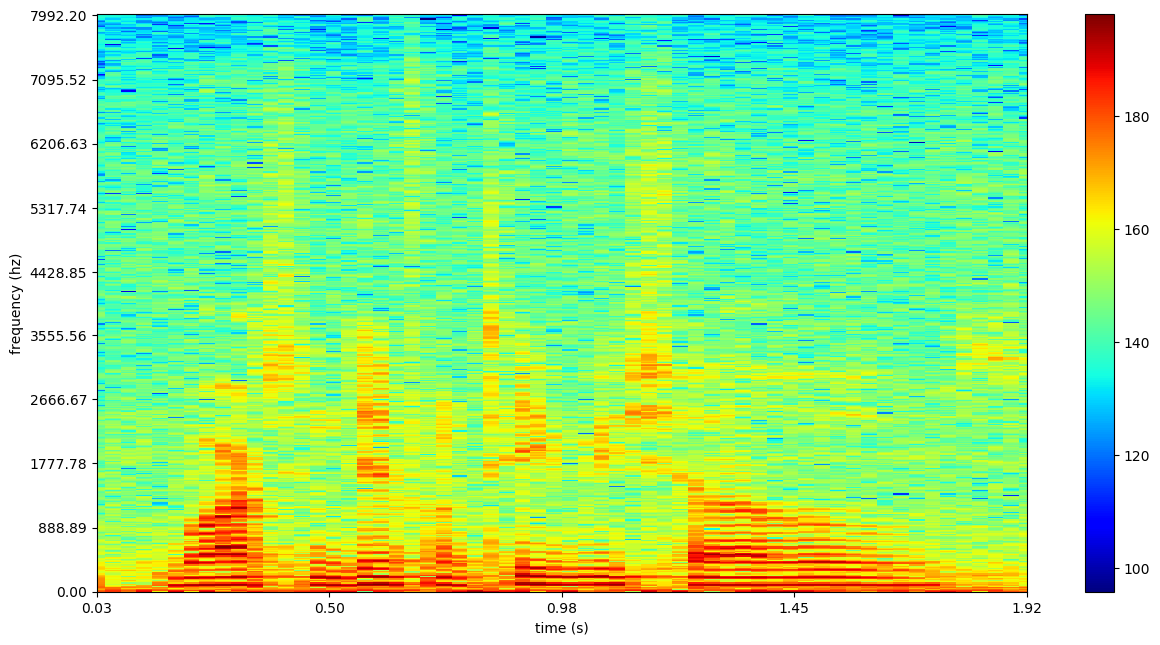
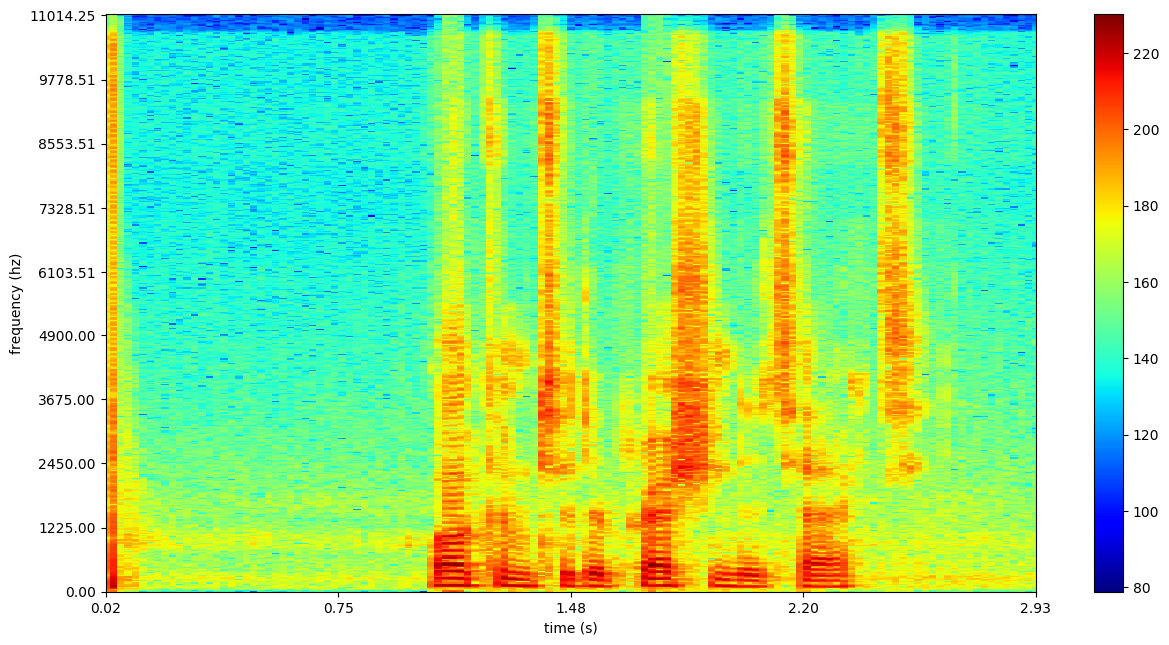
changed up spectrogram

diff --git a/README.md b/README.md
@@ -48,7 +48,7 @@ Neural networks seems to be the approach taken my many in cutting edge emotion a
 The input to my model is akin to the spectrogram you see in Figure 2 below. 513 frequency bins on the y-axis and 125 time bins on the x-axis spanning four seconds of audio.
 
 <img alt="Spectrogram" src="images/spectrogram.png" width='700'>
-<sub><b>Figure 2: </b> Spectrogram of man saying "Watching different TV shows". </sub>  
+<sub><b>Figure 2: </b> Spectrogram of me saying "Welcome to DepressionDetect". </sub>  
 
 ## Convolutional Neural Networks
 Convolutional Neural Networks (CNNs) is a variation of the better known Multilayer Perceptron (MLP) in which nodes connection are inspired by the visual cortex. They have proved a powerful tool in image recognition, video analysis, and natural language processing.
